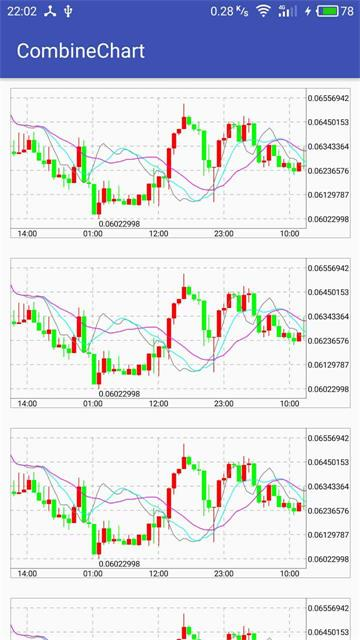
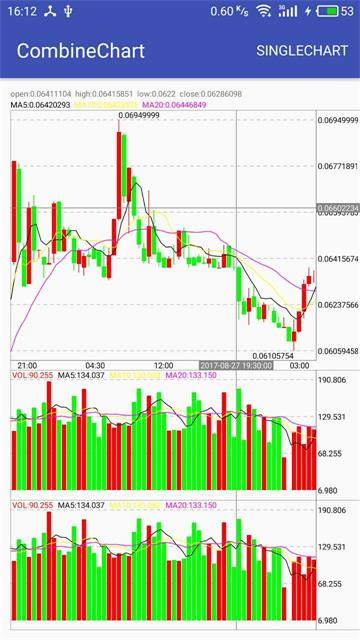
add cross point value

diff --git a/ChartLibrary/src/main/java/com/github/onlynight/chartlibrary/util/Utils.java b/ChartLibrary/src/main/java/com/github/onlynight/chartlibrary/util/Utils.java
@@ -1,8 +1,17 @@
 package com.github.onlynight.chartlibrary.util;
 
+import android.content.Context;
+import android.text.Spannable;
+import android.text.SpannableStringBuilder;
+import android.text.style.AbsoluteSizeSpan;
+import android.text.style.ForegroundColorSpan;
+
 import com.github.onlynight.chartlibrary.data.BarChartData;
+import com.github.onlynight.chartlibrary.data.BaseChartData;
 import com.github.onlynight.chartlibrary.data.CandleStickChartData;
+import com.github.onlynight.chartlibrary.data.config.BaseChartDataConfig;
 import com.github.onlynight.chartlibrary.data.entity.BarEntity;
+import com.github.onlynight.chartlibrary.data.entity.BaseEntity;
 import com.github.onlynight.chartlibrary.data.entity.CandleStickEntity;
 import com.github.onlynight.chartlibrary.data.entity.LineEntity;
 
@@ -77,4 +86,94 @@ public class Utils {
         return MA_X_Values;
     }
 
+    public static SpannableStringBuilder getChartCrossPointSpannable(Context context,
+                                                                     List<BaseEntity> legendEntities,
+                                                                     List<BaseChartData> chartsData,
+                                                                     float textSize) {
+
+        if (legendEntities == null || chartsData == null) {
+            return null;
+        }
+
+        int chartSize = chartsData.size();
+        int legendEntitiesSize = legendEntities.size();
+
+        if (chartSize != legendEntitiesSize) {
+            return null;
+        }
+
+        String content = "";
+        int[] indexes = new int[chartSize];
+        int[] colors = new int[chartSize];
+
+        for (int i = 0; i < chartSize; i++) {
+            BaseChartData chartData = chartsData.get(i);
+
+            if (chartData instanceof CandleStickChartData) {
+            } else {
+                BaseChartDataConfig config = chartData.getConfig();
+                int color = config.getColor();
+
+                BaseEntity entity = legendEntities.get(i);
+                String text = chartData.getChartName() + ":" + entity.getyValue();
+                try {
+                    text = chartData.getChartName() + ":" +
+                            chartData.getConfig().getYValueFormatter().format(entity.getY());
+                } catch (Exception e) {
+                    e.printStackTrace();
+                }
+
+                String temp = text + "  ";
+                content += temp;
+                indexes[i] = content.length();
+                colors[i] = color;
+            }
+        }
+
+        SpannableStringBuilder sb = new SpannableStringBuilder(content); // 包装字体内容
+
+        AbsoluteSizeSpan decass = new AbsoluteSizeSpan(DisplayUtil.sp2px(context, textSize));  // 设置字体大小
+        sb.setSpan(decass, 0, content.length(), Spannable.SPAN_EXCLUSIVE_EXCLUSIVE);
+        for (int i = 0; i < chartSize; i++) {
+            ForegroundColorSpan fcs = new ForegroundColorSpan(colors[i]);
+            if (i == 0) {
+                sb.setSpan(fcs, 0, indexes[i],
+                        Spannable.SPAN_INCLUSIVE_INCLUSIVE);
+            } else {
+                sb.setSpan(fcs, indexes[i - 1], indexes[i],
+                        Spannable.SPAN_INCLUSIVE_INCLUSIVE);
+            }
+        }
+
+        return sb;
+    }
+
+    public static String getChartCrossPointCandleStick(List<BaseEntity> legendEntities,
+                                                       List<BaseChartData> chartsData) {
+        if (legendEntities == null || chartsData == null) {
+            return null;
+        }
+
+        int chartSize = chartsData.size();
+        int legendEntitiesSize = legendEntities.size();
+
+        if (chartSize != legendEntitiesSize) {
+            return null;
+        }
+
+        String content = "";
+
+        for (int i = 0; i < chartSize; i++) {
+            BaseChartData chartData = chartsData.get(i);
+            if (chartData instanceof CandleStickChartData) {
+                CandleStickEntity data = (CandleStickEntity) legendEntities.get(i);
+                content = "open:" + data.getOpen() + "  "
+                        + "high:" + data.getHigh() + "  "
+                        + "low:" + data.getLow() + "  " +
+                        "close:" + data.getClose();
+            }
+        }
+
+        return content;
+    }
 }

diff --git a/app/src/main/java/com/github/onlynight/combinechart/MainActivity.java b/app/src/main/java/com/github/onlynight/combinechart/MainActivity.java
@@ -5,15 +5,25 @@ import android.os.Bundle;
 import android.os.Handler;
 import android.os.Looper;
 import android.support.v7.app.AppCompatActivity;
+import android.text.SpannableStringBuilder;
 import android.view.Menu;
 import android.view.MenuItem;
+import android.widget.TextView;
 
+import com.github.onlynight.chartlibrary.chart.BaseChart;
 import com.github.onlynight.chartlibrary.chart.CombineChart;
+import com.github.onlynight.chartlibrary.data.BaseChartData;
+import com.github.onlynight.chartlibrary.data.entity.BaseEntity;
+import com.github.onlynight.chartlibrary.util.Utils;
 import com.github.onlynight.chartlibrary.view.CombineChartView;
 import com.github.onlynight.combinechart.chart.KLineChartFactory;
 
-public class MainActivity extends AppCompatActivity {
+import java.util.List;
 
+public class MainActivity extends AppCompatActivity implements BaseChart.OnCrossPointClickListener {
+
+    private TextView mTextCrossPoint1;
+    private TextView mTextCrossPoint2;
     private CombineChartView mCombineChartView;
     private KLineChartFactory mKLineChartFactory;
 
@@ -26,10 +36,14 @@ public class MainActivity extends AppCompatActivity {
 
         mKLineChartFactory = new KLineChartFactory(this);
 
+        mTextCrossPoint1 = (TextView) findViewById(R.id.textCrossPoint1);
+        mTextCrossPoint2 = (TextView) findViewById(R.id.textCrossPoint2);
         mCombineChartView = (CombineChartView) findViewById(R.id.chart);
         mCombineChartView.setOperatable(true);
         mCombineChartView.setIsShowCrossPoint(true);
-        mCombineChartView.addChart(generateCombineChart1());
+        CombineChart candleChart = generateCombineChart1();
+        candleChart.setOnCrossPointClickListener(this);
+        mCombineChartView.addChart(candleChart);
         mCombineChartView.addChart(generateCombineChart2());
         mCombineChartView.addChart(generateCombineChart3());
         mHandler.postDelayed(new Runnable() {
@@ -71,4 +85,16 @@ public class MainActivity extends AppCompatActivity {
         return super.onOptionsItemSelected(item);
     }
 
+    @Override
+    public void onCrossPointClick(List<BaseEntity> entities, List<BaseChartData> chartsData) {
+        if (entities == null || chartsData == null) {
+            mTextCrossPoint1.setText("");
+            mTextCrossPoint2.setText("");
+        } else {
+            SpannableStringBuilder sb = Utils.getChartCrossPointSpannable(
+                    this, entities, chartsData, 8f);
+            mTextCrossPoint1.setText(Utils.getChartCrossPointCandleStick(entities, chartsData));
+            mTextCrossPoint2.setText(sb);
+        }
+    }
 }

diff --git a/ChartLibrary/src/main/java/com/github/onlynight/chartlibrary/util/DisplayUtil.java b/ChartLibrary/src/main/java/com/github/onlynight/chartlibrary/util/DisplayUtil.java
@@ -1,0 +1,51 @@
+package com.github.onlynight.chartlibrary.util;
+
+import android.app.Activity;
+import android.content.Context;
+import android.util.DisplayMetrics;
+
+/**
+ * dp、sp 转换为 px 的工具类
+ *
+ * Created by sunfusheng on 16/5/31.
+ */
+public class DisplayUtil {
+
+    // 将px值转换为dip或dp值，保证尺寸大小不变
+    public static int px2dip(Context context, float pxValue) {
+        final float scale = context.getResources().getDisplayMetrics().density;
+        return (int) (pxValue / scale + 0.5f);
+    }
+
+    // 将dip或dp值转换为px值，保证尺寸大小不变
+    public static int dip2px(Context context, float dipValue) {
+        final float scale = context.getResources().getDisplayMetrics().density;
+        return (int) (dipValue * scale + 0.5f);
+    }
+
+    // 将px值转换为sp值，保证文字大小不变
+    public static int px2sp(Context context, float pxValue) {
+        final float fontScale = context.getResources().getDisplayMetrics().scaledDensity;
+        return (int) (pxValue / fontScale + 0.5f);
+    }
+
+    // 将sp值转换为px值，保证文字大小不变
+    public static int sp2px(Context context, float spValue) {
+        final float fontScale = context.getResources().getDisplayMetrics().scaledDensity;
+        return (int) (spValue * fontScale + 0.5f);
+    }
+
+    // 屏幕宽度（像素）
+    public static int getWindowWidth(Activity context) {
+        DisplayMetrics metric = new DisplayMetrics();
+        context.getWindowManager().getDefaultDisplay().getMetrics(metric);
+        return metric.widthPixels;
+    }
+
+    // 屏幕高度（像素）
+    public static int getWindowHeight(Activity context) {
+        DisplayMetrics metric = new DisplayMetrics();
+        context.getWindowManager().getDefaultDisplay().getMetrics(metric);
+        return metric.heightPixels;
+    }
+}

diff --git a/ChartLibrary/src/main/java/com/github/onlynight/chartlibrary/render/BaseChartRender.java b/ChartLibrary/src/main/java/com/github/onlynight/chartlibrary/render/BaseChartRender.java
@@ -145,9 +145,17 @@ public abstract class BaseChartRender<T extends BaseChartData, PartRender extend
                     }
 
                     if (mOnCrossPointClickListener != null) {
-                        mOnCrossPointClickListener.onCrossPointClick(entities);
+                        mOnCrossPointClickListener.onCrossPointClick(entities, mChart.getDataList());
                     }
                 }
+            } else {
+                if (mOnCrossPointClickListener != null) {
+                    mOnCrossPointClickListener.onCrossPointClick(null, null);
+                }
+            }
+        } else {
+            if (mOnCrossPointClickListener != null) {
+                mOnCrossPointClickListener.onCrossPointClick(null, null);
             }
         }
     }

diff --git a/app/src/main/java/com/github/onlynight/combinechart/repository/KLineRepository.java b/app/src/main/java/com/github/onlynight/combinechart/repository/KLineRepository.java
@@ -46,6 +46,7 @@ public class KLineRepository {
     private CandleStickChartData generateCandleStickData(List<CandleStickEntity> candleStickEntities) {
         CandleStickChartDataConfig config = new CandleStickChartDataConfig();
         config.setAutoWidth(true);
+        config.setColor(Color.RED);
         config.setIncreasingColor(Color.RED);
         config.setDecreasingColor(Color.GREEN);
         config.setStrokeWidth(2f);

diff --git a/ChartLibrary/src/main/java/com/github/onlynight/chartlibrary/chart/BaseChart.java b/ChartLibrary/src/main/java/com/github/onlynight/chartlibrary/chart/BaseChart.java
@@ -407,7 +407,7 @@ public abstract class BaseChart<T extends BaseChartData, Render extends BaseChar
 
     public interface OnCrossPointClickListener {
 
-        void onCrossPointClick(List<BaseEntity> entities);
+        void onCrossPointClick(List<BaseEntity> entities, List<BaseChartData> chartsData);
 
     }
 }
